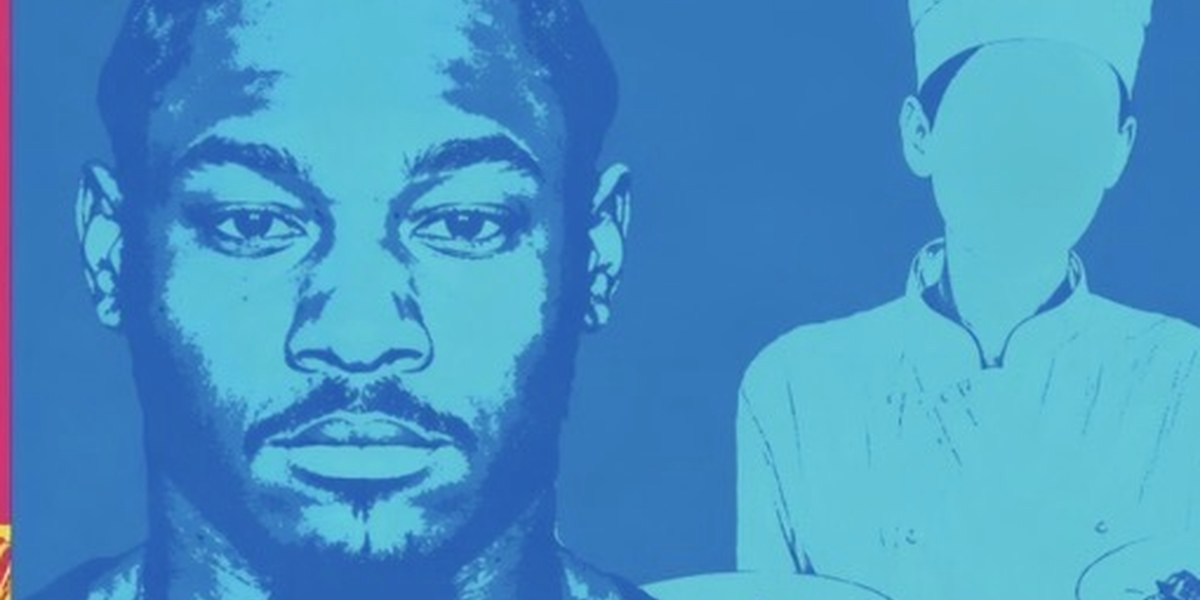
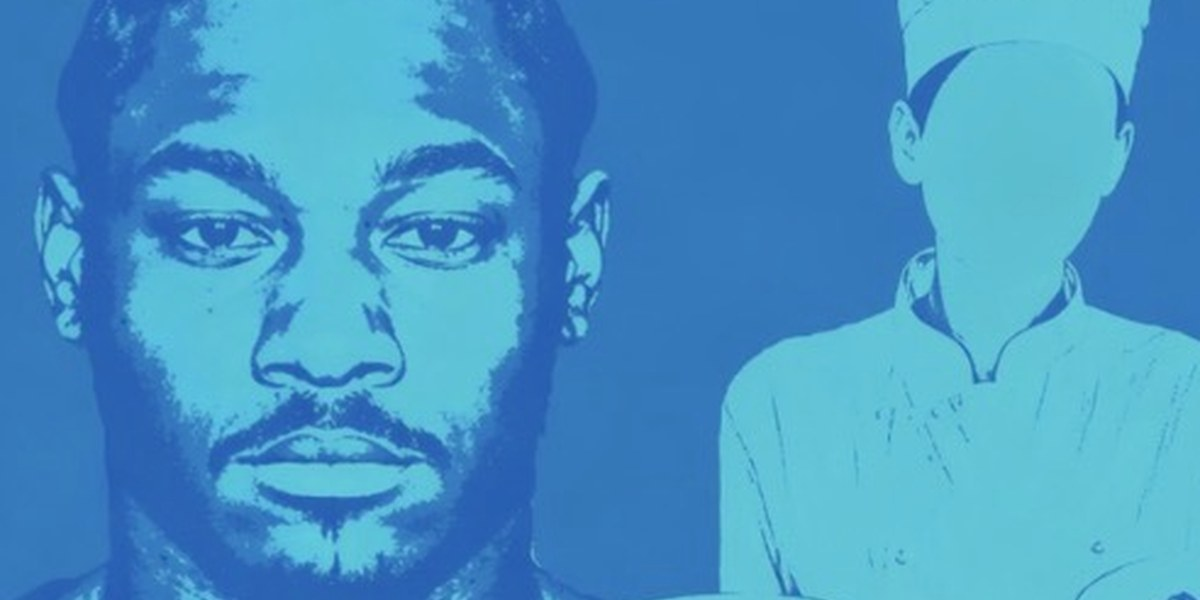
Highlight celebrity name on cards + Industry Watch section + Stefon recrop
Card title <em> highlighting (16 cards updated):
- Move highlight from formal case caption to the celebrity name
  (State v. <Woods>, People v. <Spears>, Commonwealth v. <Diggs>,
   R v. <Brand>, R v. <Brown>, U.S. v. <Live Nation>, etc.)
- Highlight celeb defendants where they were the recognizable name
  (Wade v. <Swift>, Vasquez v. <Jenner>, Ghost et al. v. <Wilson>,
   The Horizon Lawsuits — <Costner>, King Joseph v. <Will Smith>)
- Highlight both celebrities for two-celeb cases
  (<Pitt> v. <Jolie>, <Barnett> v. <LaBeouf>, <McSweeney> v. <Cohen>,
   <Kardashian & Jenner> v. <Ray J>)
- Renamed Cartagena -> Fat Joe (more recognizable stage name)

New "Industry Watch" section at bottom of homepage:
- Live Nation/Ticketmaster antitrust + Capolongo v. Spotify moved
  here since neither is about a single celebrity
- Subhead: "Not about one celebrity — about the systems that shape
  what celebrities can do."
- Main grid count adjusted: 34 -> 32 cases (2 moved out)

Stefon Diggs hero re-cropped — original screenshot had pink/yellow
edges from a prior crop; tighter crop removes both, image is now
pure blue throughout.

diff --git a/index.html b/index.html
@@ -156,7 +156,7 @@ function toggleTheme(){var c=document.documentElement.getAttribute('data-theme')
 </div>
 
 <!-- ALL CASES -->
-<div class="sh"><h2 class="sht">All Cases on the Docket</h2><div class="shl"></div><span class="shtg">34 CASES</span></div>
+<div class="sh"><h2 class="sht">All Cases on the Docket</h2><div class="shl"></div><span class="shtg">32 CASES</span></div>
 
 <div style="max-width:500px;margin:0 auto 24px;padding:0;text-align:center;">
 <input type="text" id="caseSearch" placeholder="Search cases..." oninput="searchCases()" style="width:100%;padding:10px 18px;background:var(--card);border:1px solid var(--bdr);border-radius:6px;color:var(--t1);font-family:'IBM Plex Sans',sans-serif;font-size:.85rem;outline:none;transition:border-color .2s;" onfocus="this.style.borderColor='var(--gold)'" onblur="this.style.borderColor='var(--bdr)'">
@@ -184,41 +184,39 @@ function toggleTheme(){var c=document.documentElement.getAttribute('data-theme')
 
 <a href="drake-v-umg-appeal.html" class="cc" data-search="drake aubrey graham universal music group not like us kendrick lamar ovo appeal defamation copyright ip" style="--ca:#3498db"><img src="drake-umg-hero.jpg" alt="" loading="lazy" style="width:calc(100% + 48px);height:140px;object-fit:cover;display:block;margin:-24px -24px 16px;border-bottom:1px solid var(--bdr);"><div class="cb"><span class="cbd bap">Appeal</span><span class="cbd bc">Defamation / Rap</span></div><div class="cctt"><em>Drake</em> v. UMG — Not Like Us</div><div class="ccs">Drake appeals dismissal of defamation suit over "certified pedophile" lyric. UMG calls him a "sore loser."</div><div class="ccf"><span class="ccd">Reply due Apr 17</span><span class="cca">→</span></div></a>
 
-<a href="live-nation-ticketmaster.html" class="cc" data-search="live nation ticketmaster us v live nation antitrust monopoly antitrust verdict" style="--ca:#e74c3c"><div class="cb"><span class="cbd ba">Verdict</span><span class="cbd bc">Antitrust</span></div><div class="cctt"><em>U.S.</em> v. Live Nation / Ticketmaster</div><div class="ccs">Jury finds illegal monopoly. Overcharged $1.72/ticket. Appeal planned. Breakup possible.</div><div class="ccf"><span class="ccd">Verdict Apr 15, 2026</span><span class="cca">→</span></div></a>
-
 <a href="henson-v-sony.html" class="cc" data-search="darrin henson nsync bye bye bye deadpool wolverine fortnite sony music choreographer copyright ip" style="--ca:#E11028"><div class="cb"><span class="cbd ba">Active</span><span class="cbd bc">Copyright</span></div><div class="cctt"><em>Henson</em> v. Sony Music</div><div class="ccs">NSYNC "Bye Bye Bye" choreographer sues over Deadpool & Wolverine and Fortnite use.</div><div class="ccf"><span class="ccd">Filed Mar 27, 2026</span><span class="cca">→</span></div></a>
 
-<a href="barnett-v-labeouf.html" class="cc" data-search="fka twigs tahliah barnett shia labeouf stand act nda sexual battery sexual assault sa misconduct workplace nda" style="--ca:#9b72cf"><img src="barnett-labeouf-hero.jpg" alt="" loading="lazy" style="width:calc(100% + 48px);height:140px;object-fit:cover;display:block;margin:-24px -24px 16px;border-bottom:1px solid var(--bdr);"><div class="cb"><span class="cbd ba">Active</span><span class="cbd bc">NDA / STAND Act</span></div><div class="cctt"><em>Barnett</em> v. LaBeouf</div><div class="ccs">FKA twigs challenges NDA from sexual battery settlement under California's STAND Act.</div><div class="ccf"><span class="ccd">Filed Mar 25, 2026</span><span class="cca">→</span></div></a>
+<a href="barnett-v-labeouf.html" class="cc" data-search="fka twigs tahliah barnett shia labeouf stand act nda sexual battery sexual assault sa misconduct workplace nda" style="--ca:#9b72cf"><img src="barnett-labeouf-hero.jpg" alt="" loading="lazy" style="width:calc(100% + 48px);height:140px;object-fit:cover;display:block;margin:-24px -24px 16px;border-bottom:1px solid var(--bdr);"><div class="cb"><span class="cbd ba">Active</span><span class="cbd bc">NDA / STAND Act</span></div><div class="cctt"><em>Barnett</em> v. <em>LaBeouf</em></div><div class="ccs">FKA twigs challenges NDA from sexual battery settlement under California's STAND Act.</div><div class="ccf"><span class="ccd">Filed Mar 25, 2026</span><span class="cca">→</span></div></a>
 
-<a href="kardashian-v-ray-j.html" class="cc" data-search="kim kardashian kris jenner ray j norwood sex tape defamation defamation" style="--ca:#e6a031"><img src="kardashian-ray-j-hero.jpg" alt="" loading="lazy" style="width:calc(100% + 48px);height:140px;object-fit:cover;display:block;margin:-24px -24px 16px;border-bottom:1px solid var(--bdr);"><div class="cb"><span class="cbd ba">Active</span><span class="cbd bc">Defamation</span></div><div class="cctt"><em>Kardashian & Jenner</em> v. Ray J</div><div class="ccs">$6M sex tape settlement unsealed. Judge refused to keep the deal private.</div><div class="ccf"><span class="ccd">Filed Oct 2025</span><span class="cca">→</span></div></a>
+<a href="kardashian-v-ray-j.html" class="cc" data-search="kim kardashian kris jenner ray j norwood sex tape defamation defamation" style="--ca:#e6a031"><img src="kardashian-ray-j-hero.jpg" alt="" loading="lazy" style="width:calc(100% + 48px);height:140px;object-fit:cover;display:block;margin:-24px -24px 16px;border-bottom:1px solid var(--bdr);"><div class="cb"><span class="cbd ba">Active</span><span class="cbd bc">Defamation</span></div><div class="cctt"><em>Kardashian & Jenner</em> v. <em>Ray J</em></div><div class="ccs">$6M sex tape settlement unsealed. Judge refused to keep the deal private.</div><div class="ccf"><span class="ccd">Filed Oct 2025</span><span class="cca">→</span></div></a>
 
-<a href="pitt-v-jolie-miraval.html" class="cc" data-search="brad pitt angelina jolie chateau miraval château winery property estate" style="--ca:#8b5cf6"><img src="pitt-jolie-hero.jpg" alt="" loading="lazy" style="width:calc(100% + 48px);height:140px;object-fit:cover;display:block;margin:-24px -24px 16px;border-bottom:1px solid var(--bdr);"><div class="cb"><span class="cbd ba">Active</span><span class="cbd bc">$164M Winery</span></div><div class="cctt"><em>Pitt</em> v. Jolie — Château Miraval</div><div class="ccs">$164M winery war. Key witness died. Jolie wants trial pushed to Nov 2027.</div><div class="ccf"><span class="ccd">Trial TBD 2027</span><span class="cca">→</span></div></a>
+<a href="pitt-v-jolie-miraval.html" class="cc" data-search="brad pitt angelina jolie chateau miraval château winery property estate" style="--ca:#8b5cf6"><img src="pitt-jolie-hero.jpg" alt="" loading="lazy" style="width:calc(100% + 48px);height:140px;object-fit:cover;display:block;margin:-24px -24px 16px;border-bottom:1px solid var(--bdr);"><div class="cb"><span class="cbd ba">Active</span><span class="cbd bc">$164M Winery</span></div><div class="cctt"><em>Pitt</em> v. <em>Jolie</em> — Château Miraval</div><div class="ccs">$164M winery war. Key witness died. Jolie wants trial pushed to Nov 2027.</div><div class="ccf"><span class="ccd">Trial TBD 2027</span><span class="cca">→</span></div></a>
 
-<a href="costner-horizon-lawsuits.html" class="cc" data-search="kevin costner horizon devyn labella rape scene new line sexual assault sa misconduct workplace" style="--ca:#c4813a"><img src="costner-horizon-hero.jpg" alt="" loading="lazy" style="width:calc(100% + 48px);height:140px;object-fit:cover;display:block;margin:-24px -24px 16px;border-bottom:1px solid var(--bdr);"><div class="cb"><span class="cbd ba">Multiple</span><span class="cbd bc">Harassment / Finance</span></div><div class="cctt">The <em>Horizon</em> Lawsuits — Costner</div><div class="ccs">Stunt performer rape scene suit + unpaid costume bills + New Line financing war.</div><div class="ccf"><span class="ccd">4+ lawsuits · 2025–present</span><span class="cca">→</span></div></a>
+<a href="costner-horizon-lawsuits.html" class="cc" data-search="kevin costner horizon devyn labella rape scene new line sexual assault sa misconduct workplace" style="--ca:#c4813a"><img src="costner-horizon-hero.jpg" alt="" loading="lazy" style="width:calc(100% + 48px);height:140px;object-fit:cover;display:block;margin:-24px -24px 16px;border-bottom:1px solid var(--bdr);"><div class="cb"><span class="cbd ba">Multiple</span><span class="cbd bc">Harassment / Finance</span></div><div class="cctt">The Horizon Lawsuits — <em>Costner</em></div><div class="ccs">Stunt performer rape scene suit + unpaid costume bills + New Line financing war.</div><div class="ccf"><span class="ccd">4+ lawsuits · 2025–present</span><span class="cca">→</span></div></a>
 
-<a href="wilson-v-ghost-the-deb.html" class="cc" data-search="rebel wilson ghost amanda ghost the deb camille vasquez defamation australia defamation uk australia" style="--ca:#e67e22"><img src="wilson-ghost-hero.jpg" alt="" loading="lazy" style="width:calc(100% + 48px);height:140px;object-fit:cover;display:block;margin:-24px -24px 16px;border-bottom:1px solid var(--bdr);"><div class="cb"><span class="cbd ba">Active</span><span class="cbd bc">Defamation / Film</span></div><div class="cctt"><em>Ghost et al.</em> v. Wilson</div><div class="ccs">The Deb producers sue Rebel Wilson. Anonymous smear websites and TAG PR links exposed.</div><div class="ccf"><span class="ccd">Trial Oct 2026</span><span class="cca">→</span></div></a>
+<a href="wilson-v-ghost-the-deb.html" class="cc" data-search="rebel wilson ghost amanda ghost the deb camille vasquez defamation australia defamation uk australia" style="--ca:#e67e22"><img src="wilson-ghost-hero.jpg" alt="" loading="lazy" style="width:calc(100% + 48px);height:140px;object-fit:cover;display:block;margin:-24px -24px 16px;border-bottom:1px solid var(--bdr);"><div class="cb"><span class="cbd ba">Active</span><span class="cbd bc">Defamation / Film</span></div><div class="cctt">Ghost et al. v. <em>Wilson</em></div><div class="ccs">The Deb producers sue Rebel Wilson. Anonymous smear websites and TAG PR links exposed.</div><div class="ccf"><span class="ccd">Trial Oct 2026</span><span class="cca">→</span></div></a>
 
-<a href="wade-v-swift-showgirl.html" class="cc" data-search="taylor swift flagg kelly life of a showgirl confessions trademark copyright ip trademark" style="--ca:#ec4899"><img src="wade-swift-hero.jpg" alt="" loading="lazy" style="width:calc(100% + 48px);height:140px;object-fit:cover;display:block;margin:-24px -24px 16px;border-bottom:1px solid var(--bdr);"><div class="cb"><span class="cbd ba">Active</span><span class="cbd bc">Trademark</span></div><div class="cctt"><em>Wade</em> v. Swift</div><div class="ccs">"Life of a Showgirl" vs "Confessions of a Showgirl." USPTO flagged the conflict. Swift used it anyway.</div><div class="ccf"><span class="ccd">Filed Mar 30, 2026</span><span class="cca">→</span></div></a>
+<a href="wade-v-swift-showgirl.html" class="cc" data-search="taylor swift flagg kelly life of a showgirl confessions trademark copyright ip trademark" style="--ca:#ec4899"><img src="wade-swift-hero.jpg" alt="" loading="lazy" style="width:calc(100% + 48px);height:140px;object-fit:cover;display:block;margin:-24px -24px 16px;border-bottom:1px solid var(--bdr);"><div class="cb"><span class="cbd ba">Active</span><span class="cbd bc">Trademark</span></div><div class="cctt">Wade v. <em>Swift</em></div><div class="ccs">"Life of a Showgirl" vs "Confessions of a Showgirl." USPTO flagged the conflict. Swift used it anyway.</div><div class="ccf"><span class="ccd">Filed Mar 30, 2026</span><span class="cca">→</span></div></a>
 
-<a href="vasquez-v-jenner.html" class="cc" data-search="kylie jenner angelica vasquez housekeeper timothee chalamet tri star services maison family services workplace discrimination wage hour immigration religion harassment labor workplace" style="--ca:#ec407a"><div class="cb"><span class="cbd ba">Newly Filed</span><span class="cbd bc">Workplace / Wage</span></div><div class="cctt"><em>Vasquez</em> v. Jenner</div><div class="ccs">Ex-housekeeper alleges unpaid wages, uncompensated shifts at Chalamet's home, religion and immigration-status discrimination, hostile environment.</div><div class="ccf"><span class="ccd">Filed Apr 17, 2026</span><span class="cca">→</span></div></a>
+<a href="vasquez-v-jenner.html" class="cc" data-search="kylie jenner angelica vasquez housekeeper timothee chalamet tri star services maison family services workplace discrimination wage hour immigration religion harassment labor workplace" style="--ca:#ec407a"><div class="cb"><span class="cbd ba">Newly Filed</span><span class="cbd bc">Workplace / Wage</span></div><div class="cctt">Vasquez v. <em>Jenner</em></div><div class="ccs">Ex-housekeeper alleges unpaid wages, uncompensated shifts at Chalamet's home, religion and immigration-status discrimination, hostile environment.</div><div class="ccf"><span class="ccd">Filed Apr 17, 2026</span><span class="cca">→</span></div></a>
 
 <a href="d4vd-grand-jury.html" class="cc" data-search="d4vd david burke david anthony burke celeste rivas hernandez murder twin towers hochman silverman criminal murder sexual assault sa misconduct" style="--ca:#c0392b"><div class="cb"><span class="cbd ba" style="background:rgba(225,16,40,.25);color:#ff4757;">🚨 ARRESTED</span><span class="cbd bc">Murder</span></div><div class="cctt"><em>d4vd</em> — Arrested for Murder</div><div class="ccs">Arrested Apr 16 and held without bail. Teen's dismembered remains found in his Tesla. DA reviewing Monday.</div><div class="ccf"><span class="ccd">Arrested Apr 16, 2026</span><span class="cca">→</span></div></a>
 
-<a href="russell-brand-uk-trial.html" class="cc" data-search="russell brand uk rape sexual assault r v brand criminal sexual assault sa misconduct uk" style="--ca:#8e44ad"><div class="cb"><span class="cbd bt">Trial Oct 2026</span><span class="cbd bc">Rape / Sexual Assault</span></div><div class="cctt"><em>R v. Brand</em> — UK Trial</div><div class="ccs">7 charges, 6 women, spanning 1999-2009. Up to life imprisonment if convicted.</div><div class="ccf"><span class="ccd">Trial Oct 12, 2026</span><span class="cca">→</span></div></a>
+<a href="russell-brand-uk-trial.html" class="cc" data-search="russell brand uk rape sexual assault r v brand criminal sexual assault sa misconduct uk" style="--ca:#8e44ad"><div class="cb"><span class="cbd bt">Trial Oct 2026</span><span class="cbd bc">Rape / Sexual Assault</span></div><div class="cctt">R v. <em>Brand</em> — UK Trial</div><div class="ccs">7 charges, 6 women, spanning 1999-2009. Up to life imprisonment if convicted.</div><div class="ccf"><span class="ccd">Trial Oct 12, 2026</span><span class="cca">→</span></div></a>
 
-<a href="chris-brown-uk-trial.html" class="cc" data-search="chris brown uk london bottle attack nightclub r v brown criminal battery uk" style="--ca:#c0392b"><div class="cb"><span class="cbd bt">Trial Oct 2026</span><span class="cbd bc">GBH / Assault</span></div><div class="cctt"><em>R v. Brown</em> — UK Trial</div><div class="ccs">Accused of bottle attack at London nightclub. $6.7M bond. 2-16 years if convicted.</div><div class="ccf"><span class="ccd">Trial Oct 26, 2026</span><span class="cca">→</span></div></a>
+<a href="chris-brown-uk-trial.html" class="cc" data-search="chris brown uk london bottle attack nightclub r v brown criminal battery uk" style="--ca:#c0392b"><div class="cb"><span class="cbd bt">Trial Oct 2026</span><span class="cbd bc">GBH / Assault</span></div><div class="cctt">R v. <em>Brown</em> — UK Trial</div><div class="ccs">Accused of bottle attack at London nightclub. $6.7M bond. 2-16 years if convicted.</div><div class="ccf"><span class="ccd">Trial Oct 26, 2026</span><span class="cca">→</span></div></a>
 
-<a href="tiger-woods-dui.html" class="cc" data-search="tiger woods eldrick dui hydrocodone florida rollover dui criminal" style="--ca:#2ecc71"><div class="cb"><span class="cbd ba">Active</span><span class="cbd bc">DUI + Subpoena Fight</span></div><div class="cctt"><em>State</em> v. Woods — DUI</div><div class="ccs">Rollover crash. Hydrocodone. Refused urine test. Now fighting subpoena for pharmacy records.</div><div class="ccf"><span class="ccd">Hearing May 5</span><span class="cca">→</span></div></a>
+<a href="tiger-woods-dui.html" class="cc" data-search="tiger woods eldrick dui hydrocodone florida rollover dui criminal" style="--ca:#2ecc71"><div class="cb"><span class="cbd ba">Active</span><span class="cbd bc">DUI + Subpoena Fight</span></div><div class="cctt">State v. <em>Woods</em> — DUI</div><div class="ccs">Rollover crash. Hydrocodone. Refused urine test. Now fighting subpoena for pharmacy records.</div><div class="ccf"><span class="ccd">Hearing May 5</span><span class="cca">→</span></div></a>
 
-<a href="britney-spears-dui.html" class="cc" data-search="britney spears dui rehab florida dui criminal" style="--ca:#e91e63"><img src="britney-spears-hero.jpg" alt="" loading="lazy" style="width:calc(100% + 48px);height:140px;object-fit:cover;display:block;margin:-24px -24px 16px;border-bottom:1px solid var(--bdr);"><div class="cb"><span class="cbd ba">Active</span><span class="cbd bc">DUI · In Rehab</span></div><div class="cctt"><em>People</em> v. Spears — DUI</div><div class="ccs">Arrested March 4 driving erratically. Voluntarily entered rehab April 12.</div><div class="ccf"><span class="ccd">Court May 4</span><span class="cca">→</span></div></a>
+<a href="britney-spears-dui.html" class="cc" data-search="britney spears dui rehab florida dui criminal" style="--ca:#e91e63"><img src="britney-spears-hero.jpg" alt="" loading="lazy" style="width:calc(100% + 48px);height:140px;object-fit:cover;display:block;margin:-24px -24px 16px;border-bottom:1px solid var(--bdr);"><div class="cb"><span class="cbd ba">Active</span><span class="cbd bc">DUI · In Rehab</span></div><div class="cctt">People v. <em>Spears</em> — DUI</div><div class="ccs">Arrested March 4 driving erratically. Voluntarily entered rehab April 12.</div><div class="ccf"><span class="ccd">Court May 4</span><span class="cca">→</span></div></a>
 
-<a href="stefon-diggs-criminal.html" class="cc" data-search="stefon diggs patriots strangulation dedham commonwealth felony chef criminal battery" style="--ca:#2c3e50"><img src="stefon-diggs-hero.jpg" alt="" loading="lazy" style="width:calc(100% + 48px);height:140px;object-fit:cover;display:block;margin:-24px -24px 16px;border-bottom:1px solid var(--bdr);"><div class="cb"><span class="cbd bt">Trial May 4</span><span class="cbd bc">Felony Strangulation</span></div><div class="cctt"><em>Commonwealth</em> v. Diggs</div><div class="ccs">Patriots WR charged with choking his personal chef during a wage dispute.</div><div class="ccf"><span class="ccd">Trial May 4, 2026</span><span class="cca">→</span></div></a>
+<a href="stefon-diggs-criminal.html" class="cc" data-search="stefon diggs patriots strangulation dedham commonwealth felony chef criminal battery" style="--ca:#2c3e50"><img src="stefon-diggs-hero.jpg" alt="" loading="lazy" style="width:calc(100% + 48px);height:140px;object-fit:cover;display:block;margin:-24px -24px 16px;border-bottom:1px solid var(--bdr);"><div class="cb"><span class="cbd bt">Trial May 4</span><span class="cbd bc">Felony Strangulation</span></div><div class="cctt">Commonwealth v. <em>Diggs</em></div><div class="ccs">Patriots WR charged with choking his personal chef during a wage dispute.</div><div class="ccf"><span class="ccd">Trial May 4, 2026</span><span class="cca">→</span></div></a>
 
 <a href="tyler-perry-lawsuits.html" class="cc" data-search="tyler perry derek dixon rodriguez sexual assault lionsgate sexual assault sa misconduct workplace" style="--ca:#27ae60"><div class="cb"><span class="cbd ba">2 Active</span><span class="cbd bc">Sexual Assault</span></div><div class="cctt">The <em>Tyler Perry</em> Lawsuits</div><div class="ccs">Two actors suing for sexual assault — $260M + $77M. Same legal team. Perry calls it coordinated.</div><div class="ccf"><span class="ccd">Lionsgate hearing May 7</span><span class="cca">→</span></div></a>
 
 <a href="kanye-west-employee-lawsuits.html" class="cc" data-search="kanye west ye saxon monroe employee harassment unpaid wages workplace" style="--ca:#f39c12"><div class="cb"><span class="cbd ba">Multiple</span><span class="cbd bc">Unpaid Wages</span></div><div class="cctt">The <em>Kanye West</em> Employee Cases</div><div class="ccs">Jury ordered $140K for Malibu mansion case. Security guard suing for $850K. Jane Doe harassment suit on hold.</div><div class="ccf"><span class="ccd">Multiple courts · Ongoing</span><span class="cca">→</span></div></a>
 
-<a href="fat-joe-v-dixon.html" class="cc" data-search="fat joe joseph cartagena dixon hype man defamation extortion rico defamation" style="--ca:#e74c3c"><div class="cb"><span class="cbd ba">Active</span><span class="cbd bc">Defamation / Extortion</span></div><div class="cctt"><em>Cartagena</em> v. Dixon</div><div class="ccs">Fat Joe vs. former hype man. RICO and sex abuse claims dropped. Defamation proceeding.</div><div class="ccf"><span class="ccd">SDNY Federal Court</span><span class="cca">→</span></div></a>
+<a href="fat-joe-v-dixon.html" class="cc" data-search="fat joe joseph cartagena dixon hype man defamation extortion rico defamation" style="--ca:#e74c3c"><div class="cb"><span class="cbd ba">Active</span><span class="cbd bc">Defamation / Extortion</span></div><div class="cctt"><em>Fat Joe</em> v. Dixon</div><div class="ccs">Fat Joe vs. former hype man. RICO and sex abuse claims dropped. Defamation proceeding.</div><div class="ccf"><span class="ccd">SDNY Federal Court</span><span class="cca">→</span></div></a>
 
 <a href="cardi-b-mic-lawsuit.html" class="cc" data-search="cardi b belcalis almanzar almánzar microphone battery las vegas battery" style="--ca:#e91e63"><div class="cb"><span class="cbd ba">Active</span><span class="cbd bc">Battery</span></div><div class="cctt">Jane Doe v. <em>Cardi B</em></div><div class="ccs">Fan sues after Cardi threw a microphone at her during a Las Vegas concert.</div><div class="ccf"><span class="ccd">Filed Jul 2025</span><span class="cca">→</span></div></a>
 
@@ -230,7 +228,7 @@ function toggleTheme(){var c=document.documentElement.getAttribute('data-theme')
 
 <a href="perry-rose-criminal-probe.html" class="cc" data-search="katy perry ruby rose australia sexual assault probe allegation criminal sexual assault sa misconduct uk australia" style="--ca:#9b59b6"><div class="cb"><span class="cbd ba">Probe</span><span class="cbd bc">Sexual Assault · Australia</span></div><div class="cctt"><em>Perry</em> — Ruby Rose Allegation</div><div class="ccs">Ruby Rose accuses Katy Perry of assault 20 years ago. Police reports filed. Perry denies.</div><div class="ccf"><span class="ccd">Reports filed Apr 14</span><span class="cca">→</span></div></a>
 
-<a href="cohen-v-mcsweeney.html" class="cc" data-search="andy cohen bravo leah mcsweeney rhony cocaine workplace reality tv workplace" style="--ca:#e67e22"><div class="cb"><span class="cbd ba">MTD Pending</span><span class="cbd bc">Workplace / Reality TV</span></div><div class="cctt"><em>McSweeney</em> v. Cohen & Bravo</div><div class="ccs">RHONY star sues Andy Cohen over toxic workplace culture and cocaine claims. Cohen moves to dismiss.</div><div class="ccf"><span class="ccd">MTD filed Apr 8, 2026</span><span class="cca">→</span></div></a>
+<a href="cohen-v-mcsweeney.html" class="cc" data-search="andy cohen bravo leah mcsweeney rhony cocaine workplace reality tv workplace" style="--ca:#e67e22"><div class="cb"><span class="cbd ba">MTD Pending</span><span class="cbd bc">Workplace / Reality TV</span></div><div class="cctt"><em>McSweeney</em> v. <em>Cohen</em> & Bravo</div><div class="ccs">RHONY star sues Andy Cohen over toxic workplace culture and cocaine claims. Cohen moves to dismiss.</div><div class="ccf"><span class="ccd">MTD filed Apr 8, 2026</span><span class="cca">→</span></div></a>
 
 <a href="paris-jackson-v-mj-estate.html" class="cc" data-search="paris jackson michael jackson mj estate executors probate property estate" style="--ca:#F6C340"><div class="cb"><span class="cbd ba">Active</span><span class="cbd bc">Estate / Probate</span></div><div class="cctt"><em>Paris Jackson</em> v. MJ Estate</div><div class="ccs">Paris accuses executors of using her father's fortune to bully and mock her in court filings.</div><div class="ccf"><span class="ccd">Filed Apr 6, 2026</span><span class="cca">→</span></div></a>
 
@@ -242,11 +240,21 @@ function toggleTheme(){var c=document.documentElement.getAttribute('data-theme')
 
 <a href="brown-v-ample-defamation.html" class="cc" data-search="chris brown warner bros ample history of violence documentary defamation defamation" style="--ca:#c0392b"><div class="cb"><span class="cbd ba">Dismissed</span><span class="cbd bc">Defamation / $500M</span></div><div class="cctt"><em>Brown</em> v. Warner Bros. / Ample</div><div class="ccs">Chris Brown sued over "A History of Violence" documentary. $500M defamation claim dismissed Jan 2026.</div><div class="ccf"><span class="ccd">Dismissed Jan 12, 2026</span><span class="cca">→</span></div></a>
 
-<a href="smith-v-king-joseph.html" class="cc" data-search="will smith king joseph violinist treyball harassment retaliation workplace sexual assault sa misconduct" style="--ca:#c9a227"><div class="cb"><span class="cbd ba">Active</span><span class="cbd bc">Workplace / Harassment</span></div><div class="cctt"><em>King Joseph</em> v. Will Smith</div><div class="ccs">Professional violinist sues Will Smith and Treyball Studios for retaliation, wrongful termination, and sexual harassment.</div><div class="ccf"><span class="ccd">Filed Dec 30, 2025</span><span class="cca">→</span></div></a>
+<a href="smith-v-king-joseph.html" class="cc" data-search="will smith king joseph violinist treyball harassment retaliation workplace sexual assault sa misconduct" style="--ca:#c9a227"><div class="cb"><span class="cbd ba">Active</span><span class="cbd bc">Workplace / Harassment</span></div><div class="cctt">King Joseph v. <em>Will Smith</em></div><div class="ccs">Professional violinist sues Will Smith and Treyball Studios for retaliation, wrongful termination, and sexual harassment.</div><div class="ccf"><span class="ccd">Filed Dec 30, 2025</span><span class="cca">→</span></div></a>
+
+</div>
+
+<!-- INDUSTRY WATCH — non-celebrity but celeb-adjacent cases -->
+<div class="sh"><h2 class="sht">Industry Watch</h2><div class="shl"></div><span class="shtg">2 CASES · STRUCTURAL</span></div>
+<p style="max-width:1100px;margin:-12px auto 24px;padding:0 24px;text-align:center;font-size:.88rem;color:var(--t2);line-height:1.6;">Not about one celebrity — about the systems that shape what celebrities can do. Antitrust, label battles, and platform power.</p>
+<div class="grid">
+
+<a href="live-nation-ticketmaster.html" class="cc" data-search="live nation ticketmaster us v live nation antitrust monopoly antitrust verdict" style="--ca:#e74c3c"><div class="cb"><span class="cbd ba">Verdict</span><span class="cbd bc">Antitrust</span></div><div class="cctt">U.S. v. <em>Live Nation</em> / Ticketmaster</div><div class="ccs">Jury finds illegal monopoly. Overcharged $1.72/ticket. Appeal planned. Breakup possible.</div><div class="ccf"><span class="ccd">Verdict Apr 15, 2026</span><span class="cca">→</span></div></a>
 
 <a href="capolongo-v-spotify.html" class="cc" data-search="capolongo spotify streaming copyright ip" style="--ca:#3b82f6"><div class="cb"><span class="cbd ba">Active</span><span class="cbd bc">Class Action / Consumer</span></div><div class="cctt"><em>Capolongo</em> v. Spotify</div><div class="ccs">Class action alleges Discovery Mode is "modern payola" — labels pay for algorithmic boost while users pay for "neutral" recommendations. TX AG probe opened Apr 22.</div><div class="ccf"><span class="ccd">Filed Nov 2025</span><span class="cca">→</span></div></a>
 
 </div>
+
 
 <footer class="ft"><div class="ftl">Celebrity<span>Dockets</span></div><p class="ftt">Tracking celebrity court cases, one docket at a time.</p><div class="ftk"><a href="index.html">Cases</a><a href="objection-live.html">Objection Live!</a><a href="recess.html">RECESS</a><a href="star-bar.html">Star Bar</a><a href="https://www.youtube.com/@CJournalist24" target="_blank">YouTube</a><a href="about.html">About</a></div><div class="ftk" style="margin-top:12px;"><a href="legal.html">Terms &amp; Privacy</a></div><p style="font-size:.65rem;color:#5a5a6a;margin-top:12px;max-width:600px;margin-left:auto;margin-right:auto;line-height:1.5;">Celebrity Dockets is an independent media site. Nothing here is legal advice. All case information is sourced from public court filings and verified reporting.</p><p class="ftc">&copy; 2026 CelebrityDockets.com &middot; All rights reserved.</p></footer>
 
